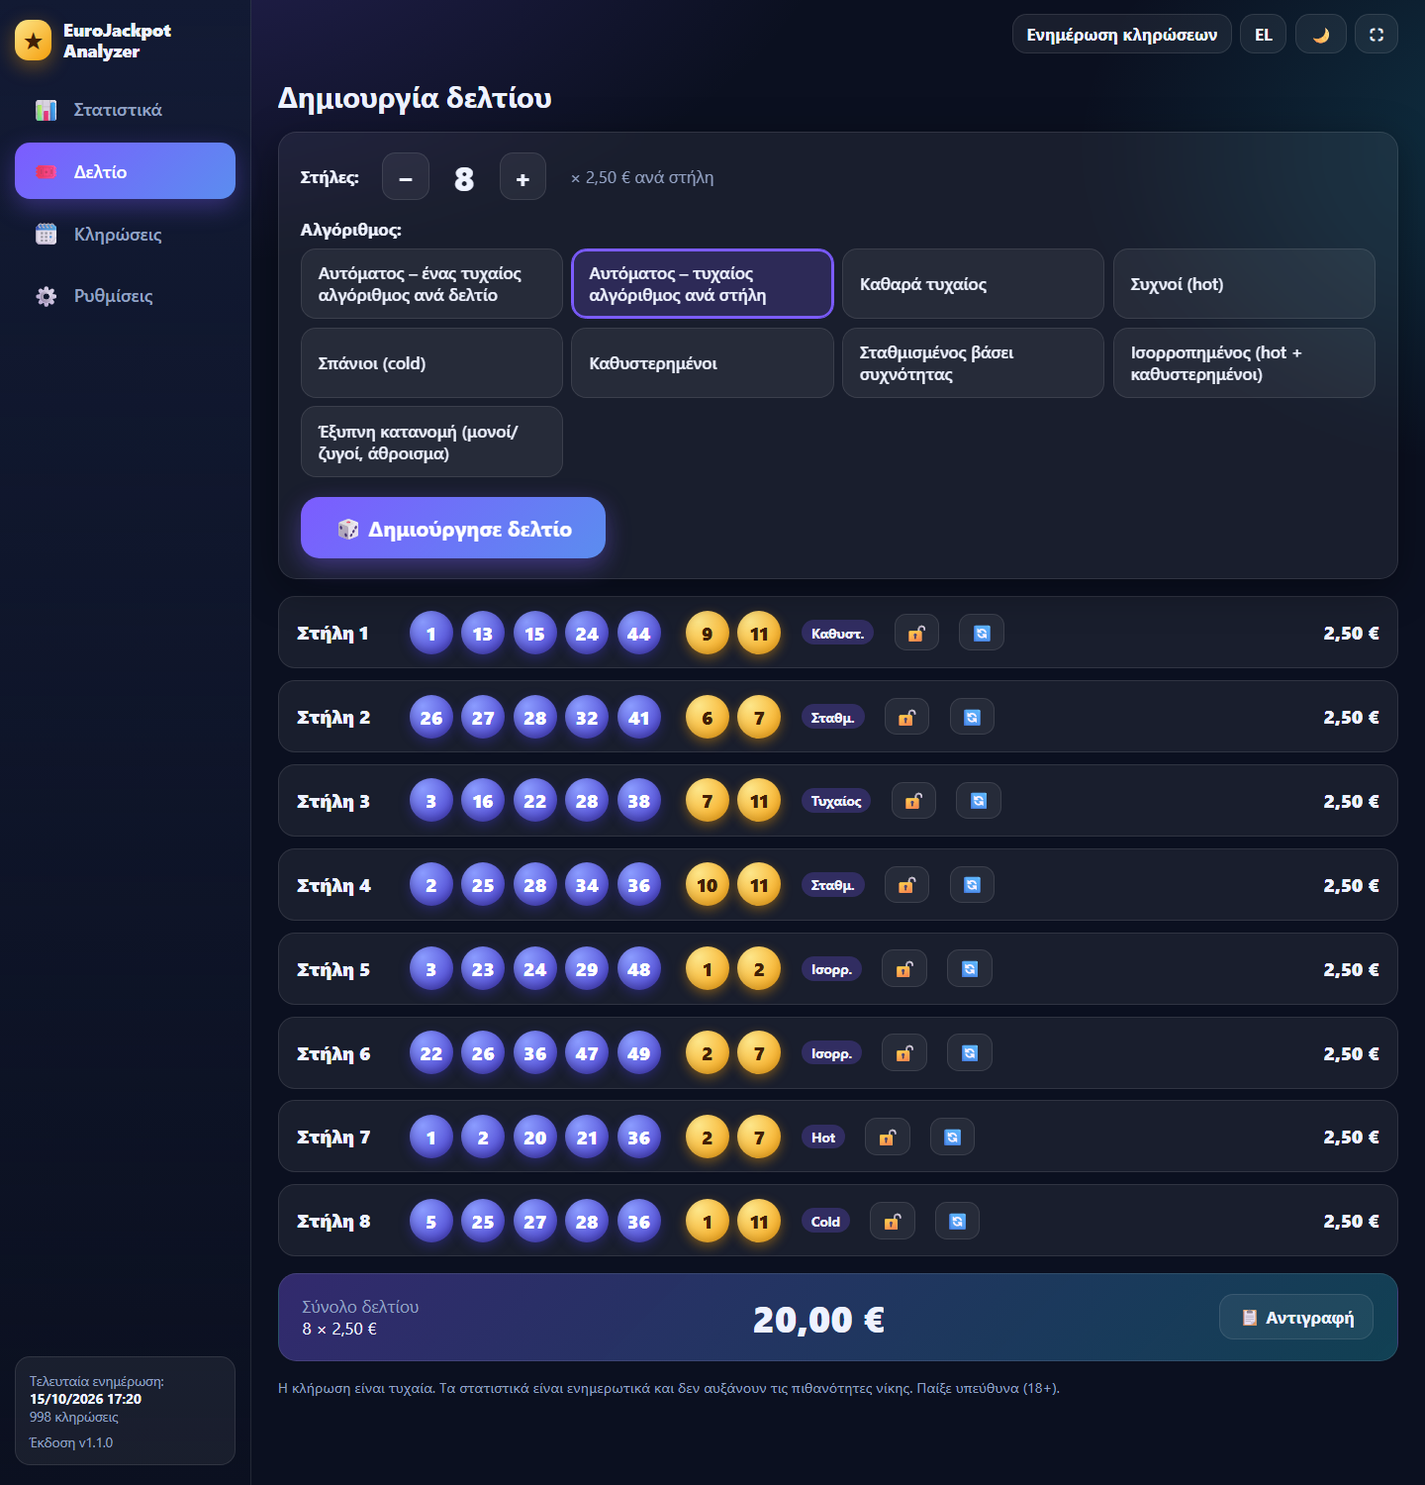
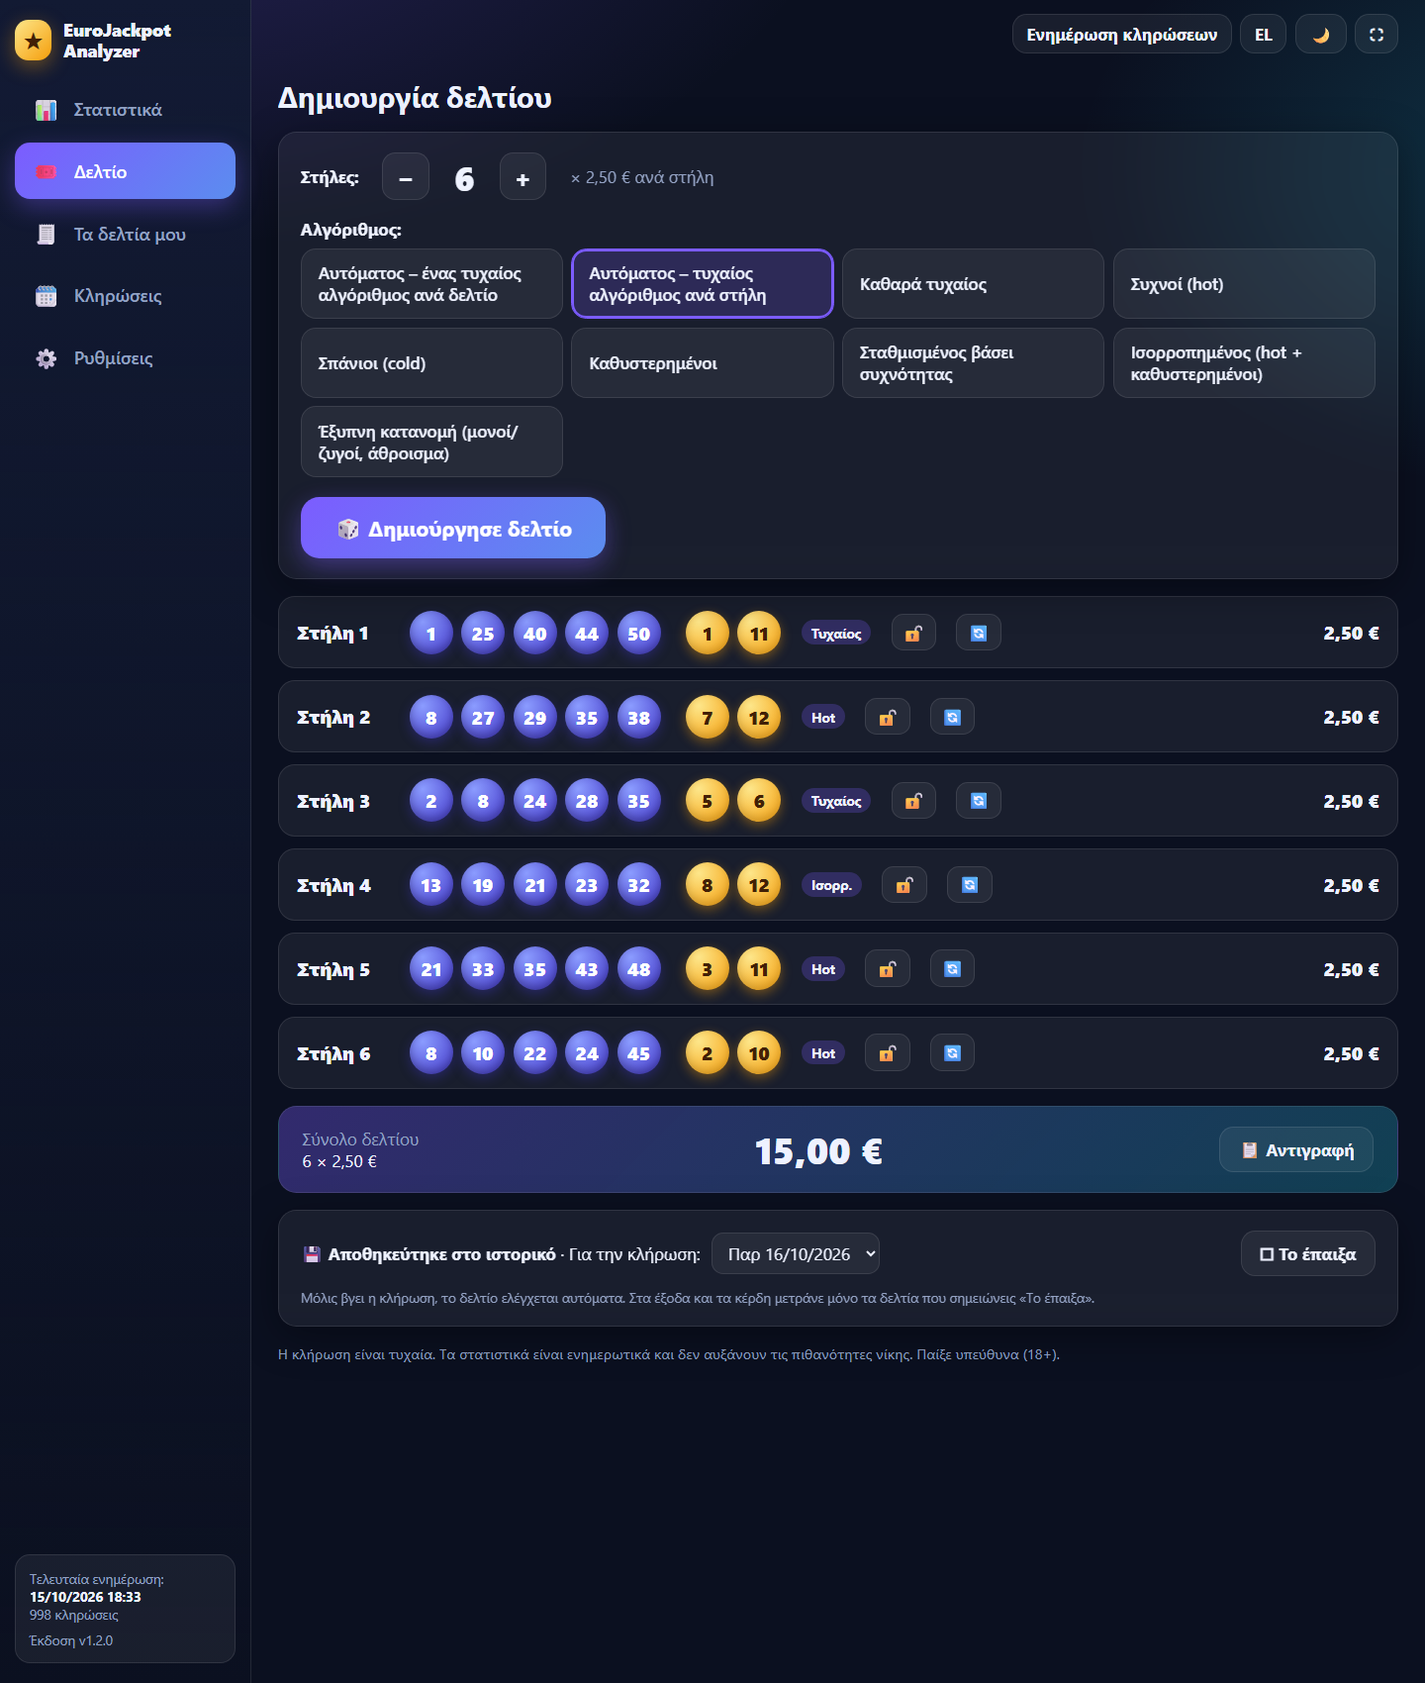
Docs: new screenshots, ticket history guide, handoff notes

diff --git a/README.md b/README.md
@@ -1,8 +1,14 @@
 # EuroJackpot Analyzer
 
-Portable πρόγραμμα για Windows που κατεβάζει όλο το ιστορικό του EuroJackpot (από 23/3/2012), δείχνει στατιστικά
-με γραφήματα και φτιάχνει δελτία 1–12 στηλών (2,50 € ανά στήλη). Ελληνικά / English, σκούρο / ανοιχτό θέμα,
-παράθυρο ή πλήρης οθόνη (F11).
+Portable πρόγραμμα για Windows που:
+- κατεβάζει όλο το ιστορικό του EuroJackpot (από 23/3/2012) και το ενημερώνει μόνο του,
+- δείχνει στατιστικά με γραφήματα (συχνότητα, καθυστέρηση, μονοί/ζυγοί, άθροισμα, ζεύγη),
+- δείχνει για κάθε κλήρωση τις επιτυχίες και τα κέρδη (σύνολο χωρών, Ελλάδα, κέρδος ανά επιτυχία),
+- φτιάχνει δελτία 1–12 στηλών (2,50 € ανά στήλη) με 7 αλγορίθμους ή αυτόματη επιλογή,
+- **κρατά ιστορικό των δελτίων σου και τα ελέγχει αυτόματα μόλις βγει η κλήρωση**, με ποσό κέρδους και συνολικό αποτέλεσμα,
+- εξάγει/εισάγει τα δεδομένα σου (JSON, CSV) και ενημερώνεται από GitHub με ένα κλικ.
+
+Ελληνικά / English, σκούρο / ανοιχτό θέμα, παράθυρο ή πλήρης οθόνη (F11).
 
 ![Στατιστικά](docs/images/01-statistics.png)
 
@@ -50,10 +56,23 @@ Portable πρόγραμμα για Windows που κατεβάζει όλο το
    - *Καθαρά τυχαίος, Συχνοί (hot), Σπάνιοι (cold), Καθυστερημένοι, Σταθμισμένος βάσει συχνότητας, Ισορροπημένος, Έξυπνη κατανομή (μονοί/ζυγοί, άθροισμα)*.
 3. Πάτα **Δημιούργησε δελτίο**. Δίπλα σε κάθε στήλη φαίνεται ο αλγόριθμος που τη δημιούργησε και η τιμή της (2,50 €). Κάτω φαίνεται το **σύνολο του δελτίου**.
 4. Με το 🔒 κλειδώνεις μια στήλη που σου αρέσει, με το 🔄 ξαναφτιάχνεις μόνο εκείνη και με το **Αντιγραφή** παίρνεις όλο το δελτίο ως κείμενο.
+5. Στο κάτω μέρος βλέπεις ότι το δελτίο **αποθηκεύτηκε στο ιστορικό** για την επόμενη κλήρωση (μπορείς να διαλέξεις άλλη ημερομηνία). Αν το παίξεις πραγματικά, πάτα **«Το έπαιξα»**.
+   Όσο δεν το έχεις σημειώσει ως παιγμένο, ένα νέο «Δημιούργησε δελτίο» αντικαθιστά την πρόταση, χωρίς να γεμίζει το ιστορικό.
 
 > Η κλήρωση είναι τυχαία. Τα στατιστικά είναι ενημερωτικά και δεν αυξάνουν τις πιθανότητες νίκης. Παίξε υπεύθυνα (18+).
 
-### 5. Ρυθμίσεις: γλώσσα, θέμα, δεδομένα, εξαγωγή και εισαγωγή
+### 5. Τα δελτία μου: ιστορικό και έλεγχος κερδών
+![Τα δελτία μου](docs/images/07-my-tickets.png)
+
+Στην καρτέλα **Τα δελτία μου** βλέπεις όλα τα δελτία που έφτιαξες, από το πιο πρόσφατο:
+- **Αυτόματος έλεγχος**: μόλις ενημερωθούν οι κληρώσεις (κουμπί «Ενημέρωση κληρώσεων» ή αυτόματα στο άνοιγμα), κάθε δελτίο συγκρίνεται με την κλήρωση που αφορούσε. Οι αριθμοί που βγήκαν σημαδεύονται με πράσινο, και κάθε στήλη δείχνει την κατηγορία (π.χ. *3 + 1*) και το **ποσό του κέρδους**.
+- **Ειδοποίηση**: αν κερδίσεις σε δελτίο που έπαιξες, εμφανίζεται μήνυμα και πράσινος αριθμός δίπλα στην καρτέλα.
+- **Σύνολα**: έξοδα, κέρδη, καθαρό αποτέλεσμα και μεγαλύτερο κέρδος. Μετράνε **μόνο τα δελτία που σημείωσες «Το έπαιξα»**. Οι υπόλοιπα μένουν ως «Πρόταση (δεν παίχτηκε)» και ελέγχονται κι αυτά, χωρίς να μπαίνουν στα σύνολα.
+- **Φίλτρα**: Όλα, Έπαιξα, Εκκρεμούν, Με κέρδος. Με κλικ στην ημερομηνία ανοίγουν οι λεπτομέρειες της κλήρωσης.
+- Τα ποσά προέρχονται από τα πραγματικά κέρδη ανά επιτυχία της κλήρωσης. Η κατηγορία **1 + 1** (0,50 € add-on) πληρώνει 2,50 € και ισχύει μόνο για κληρώσεις από 8/3/2024.
+- Το ιστορικό δελτίων **περιλαμβάνεται στην εξαγωγή JSON** και φορτώνεται μαζί με τις κληρώσεις σε άλλο PC.
+
+### 6. Ρυθμίσεις: γλώσσα, θέμα, δεδομένα, εξαγωγή και εισαγωγή
 ![Ρυθμίσεις](docs/images/04-settings.png)
 
 Η **γλώσσα** (Ελληνικά / English) και το **θέμα** (σκούρο / ανοιχτό) αλλάζουν αμέσως, από τα κουμπιά πάνω δεξιά ή από τις Ρυθμίσεις. Παράδειγμα στα αγγλικά με ανοιχτό θέμα:
@@ -70,14 +89,14 @@ Portable πρόγραμμα για Windows που κατεβάζει όλο το
 - **Εξαγωγή δεδομένων**: αποθηκεύει όλες τις κληρώσεις σε **JSON** (πλήρες, με επιτυχίες και κέρδη) ή **CSV** (μόνο αριθμοί), ώστε να τις ανεβάσεις σε άλλο PC ή σε άλλο πρόγραμμα, ακόμα και offline.
 - **Εισαγωγή από CSV / JSON**: επίλεξε αρχείο ή σύρε το στο πλαίσιο. Δέχεται τα αρχεία που εξάγει η ίδια η εφαρμογή και απλά CSV με ημερομηνία + 5 αριθμούς + 2 Euro. Οι κληρώσεις συγχωνεύονται χωρίς διπλότυπα.
 - **Έλεγχος σύνδεσης**: δοκιμάζει κάθε online πηγή χωριστά και δείχνει το σφάλμα. Με το «Αντιγραφή αναφοράς» μπορείς να το στείλεις για διάγνωση.
-- **Έλεγχος και εγκατάσταση νέας έκδοσης**: κατεβάζει το νέο zip από το GitHub, ελέγχει το SHA-256, αντικαθιστά τα αρχεία (ο φάκελος `data` μένει ανέγγιχτος) και ξανανοίγει την εφαρμογή.
+- **Έλεγχος και εγκατάσταση νέας έκδοσης** (κάτω στη σελίδα, στην εικόνα παραπάνω): όταν υπάρχει νέα έκδοση φαίνονται οι αλλαγές της. Με το «Εγκατάσταση και επανεκκίνηση» κατεβάζει το νέο zip από το GitHub, ελέγχει το SHA-256, αντικαθιστά τα αρχεία (ο φάκελος `data` με τα δεδομένα και τα δελτία σου μένει ανέγγιχτος) και ξανανοίγει την εφαρμογή.
 
-### 6. Αν δεν δουλεύει η online ενημέρωση
+### 7. Αν δεν δουλεύει η online ενημέρωση
 Η εφαρμογή **δεν μπλοκάρει**. Έχει ενσωματωμένο ιστορικό, οπότε ανοίγει πάντα με δεδομένα. Αν δεν υπάρχουν καθόλου δεδομένα, εμφανίζεται οθόνη όπου μπορείς να **φορτώσεις χειροκίνητα αρχείο κληρώσεων** (κουμπί ή drag & drop), να ξαναδοκιμάσεις ή να τρέξεις **Έλεγχο σύνδεσης**.
 
 Συνηθισμένες αιτίες σφάλματος `403 Forbidden`: VPN, εταιρικό δίκτυο/proxy ή antivirus που μπλοκάρει το εξωτερικό API. Δοκίμασε χωρίς VPN ή από άλλο δίκτυο, ή χρησιμοποίησε εξαγωγή/εισαγωγή αρχείου από ένα PC που δουλεύει.
 
-### 7. Προβλήματα εκκίνησης
+### 8. Προβλήματα εκκίνησης
 - **«Windows protected your PC» (SmartScreen)**: η εφαρμογή δεν έχει ψηφιακή υπογραφή (πληρωμένο πιστοποιητικό), οπότε τα Windows τη θεωρούν «άγνωστο εκδότη». Πάτα **More info → Run anyway**. Εμφανίζεται μία φορά.
 - **Σφάλμα `Failed to resolve Python.Runtime.Loader.Initialize` (παλιότερες εκδόσεις)**: τα Windows μαρκάρουν τα αρχεία ενός zip από το internet ως «μπλοκαρισμένα» και σε ορισμένα PC το .NET δεν φορτώνει την DLL. Από την έκδοση 1.1.3 η εφαρμογή αφαιρεί μόνη της τη σήμανση. Σε παλιότερη έκδοση, τρέξε σε PowerShell `Get-ChildItem "<φάκελος εφαρμογής>" -Recurse | Unblock-File`, ή κάνε δεξί κλικ στο zip → *Properties* → **Unblock** πριν την εξαγωγή.
 - Αν παρ' όλα αυτά το native παράθυρο δεν ανοίξει, η εφαρμογή ανοίγει αυτόματα σε παράθυρο Edge (app mode) και δουλεύει κανονικά. Το σφάλμα γράφεται στο `data\startup.log`.

diff --git a/PROGRESS.md b/PROGRESS.md
@@ -1,21 +1,21 @@
 # Progress
 
 ## >>> ΠΟΥ ΕΧΟΥΜΕ ΜΕΙΝΕΙ (συνέχεια από το σπίτι) <<<
-Repo: https://github.com/VeZReVouLiS/EuroJackpot-Analyzer (public). Τελευταίο release: **v1.1.2**.
+Repo: https://github.com/VeZReVouLiS/EuroJackpot-Analyzer (public). Τελευταίο release: **v1.2.0**.
 
-**Έγινε στην 1.1.2:** fallback όταν το native παράθυρο (pywebview/pythonnet) δεν ξεκινά, π.χ. στο PC `dosma` με
-`Failed to resolve Python.Runtime.Loader.Initialize`: η εφαρμογή ανοίγει σε Edge app mode μέσω τοπικού server
-(token + έλεγχος Host), γράφει το σφάλμα στο `data\startup.log`, και κλείνει όταν κλείσει το παράθυρο.
-Διορθώθηκαν επίσης τα release notes (UTF-8) και οι οδηγίες (SmartScreen, Unblock).
+**Έγιναν:** v1.1.3 (αυτόματη αφαίρεση του «Mark of the Web» από τα αρχεία — αιτία του pythonnet σφάλματος στο PC `dosma`),
+v1.2.0 (ιστορικό δελτίων «Τα δελτία μου» + αυτόματος έλεγχος κερδών + σύνολα + ειδοποίηση + export/import δελτίων),
+README με οδηγίες και 7 εικόνες (docs/images, παράγονται με headless Edge και hash params: `#static=1&view=...&lang=...&theme=...&gen=N&draw=YYYY-MM-DD&demo_update=1`).
 
 **Επόμενα βήματα:**
-1. Δοκιμή της 1.1.2 στο PC `dosma` (και εκεί: Ρυθμίσεις → Έλεγχος σύνδεσης για το παλιό 403). Αν το fallback δεν ανοίξει, στείλε το `data\startup.log`.
-2. Splash screen πρώτης εκκίνησης με επιλογή γλώσσας και χώρας (ζήτηση χρήστη).
-3. Mac έκδοση, Allwyn login/παιχνίδι, Home Assistant (βλ. Future).
+1. Επιβεβαίωση στο PC `dosma`: φρέσκο κατέβασμα της 1.1.3+ ΧΩΡΙΣ Unblock πρέπει να ανοίγει native παράθυρο (αν όχι: `data\startup.log`). Δοκιμή «Εγκατάσταση και επανεκκίνηση» από την 1.1.2 → νεότερη.
+2. **Home Assistant** (ζήτηση χρήστη, όπως η Αττική Οδός): σχεδιασμός και υλοποίηση — αισθητήρες τελευταίας κλήρωσης/επόμενης κλήρωσης/jackpot/καθυστερούμενων αριθμών, αποτελέσματα δελτίων, ίσως παιχνίδι από HA.
+3. Splash screen πρώτης εκκίνησης με επιλογή γλώσσας και χώρας.
+4. Mac έκδοση, Allwyn login/παιχνίδι, μη υπογεγραμμένο exe (SmartScreen).
 
-**Σημείωση:** το exe δεν είναι υπογεγραμμένο, οπότε εμφανίζεται SmartScreen «Unknown publisher»· λύση μόνο με code-signing πιστοποιητικό.
-Δοκιμή: `.venv\Scripts\python run.py` (ή `--browser`), tests: `.venv\Scripts\python -m pytest -q` (46).
+Δοκιμή: `.venv\Scripts\python run.py` (ή `--browser`), tests: `.venv\Scripts\python -m pytest -q` (57).
 Release: bump `app/version.py` + `CHANGELOG.md`, μετά `powershell -ExecutionPolicy Bypass -File build\release.ps1 -SkipSeed`.
+Dev DB με demo δελτία: `data\eurojackpot.db` (git-ignored, δεν μπαίνει στο exe).
 ## Done
 - [x] M1 skeleton, venv (.venv), deps
 - [x] M2 db.py, sources/official.py (998 draws 2012->2026-10-13 in ~28s), updater.py
